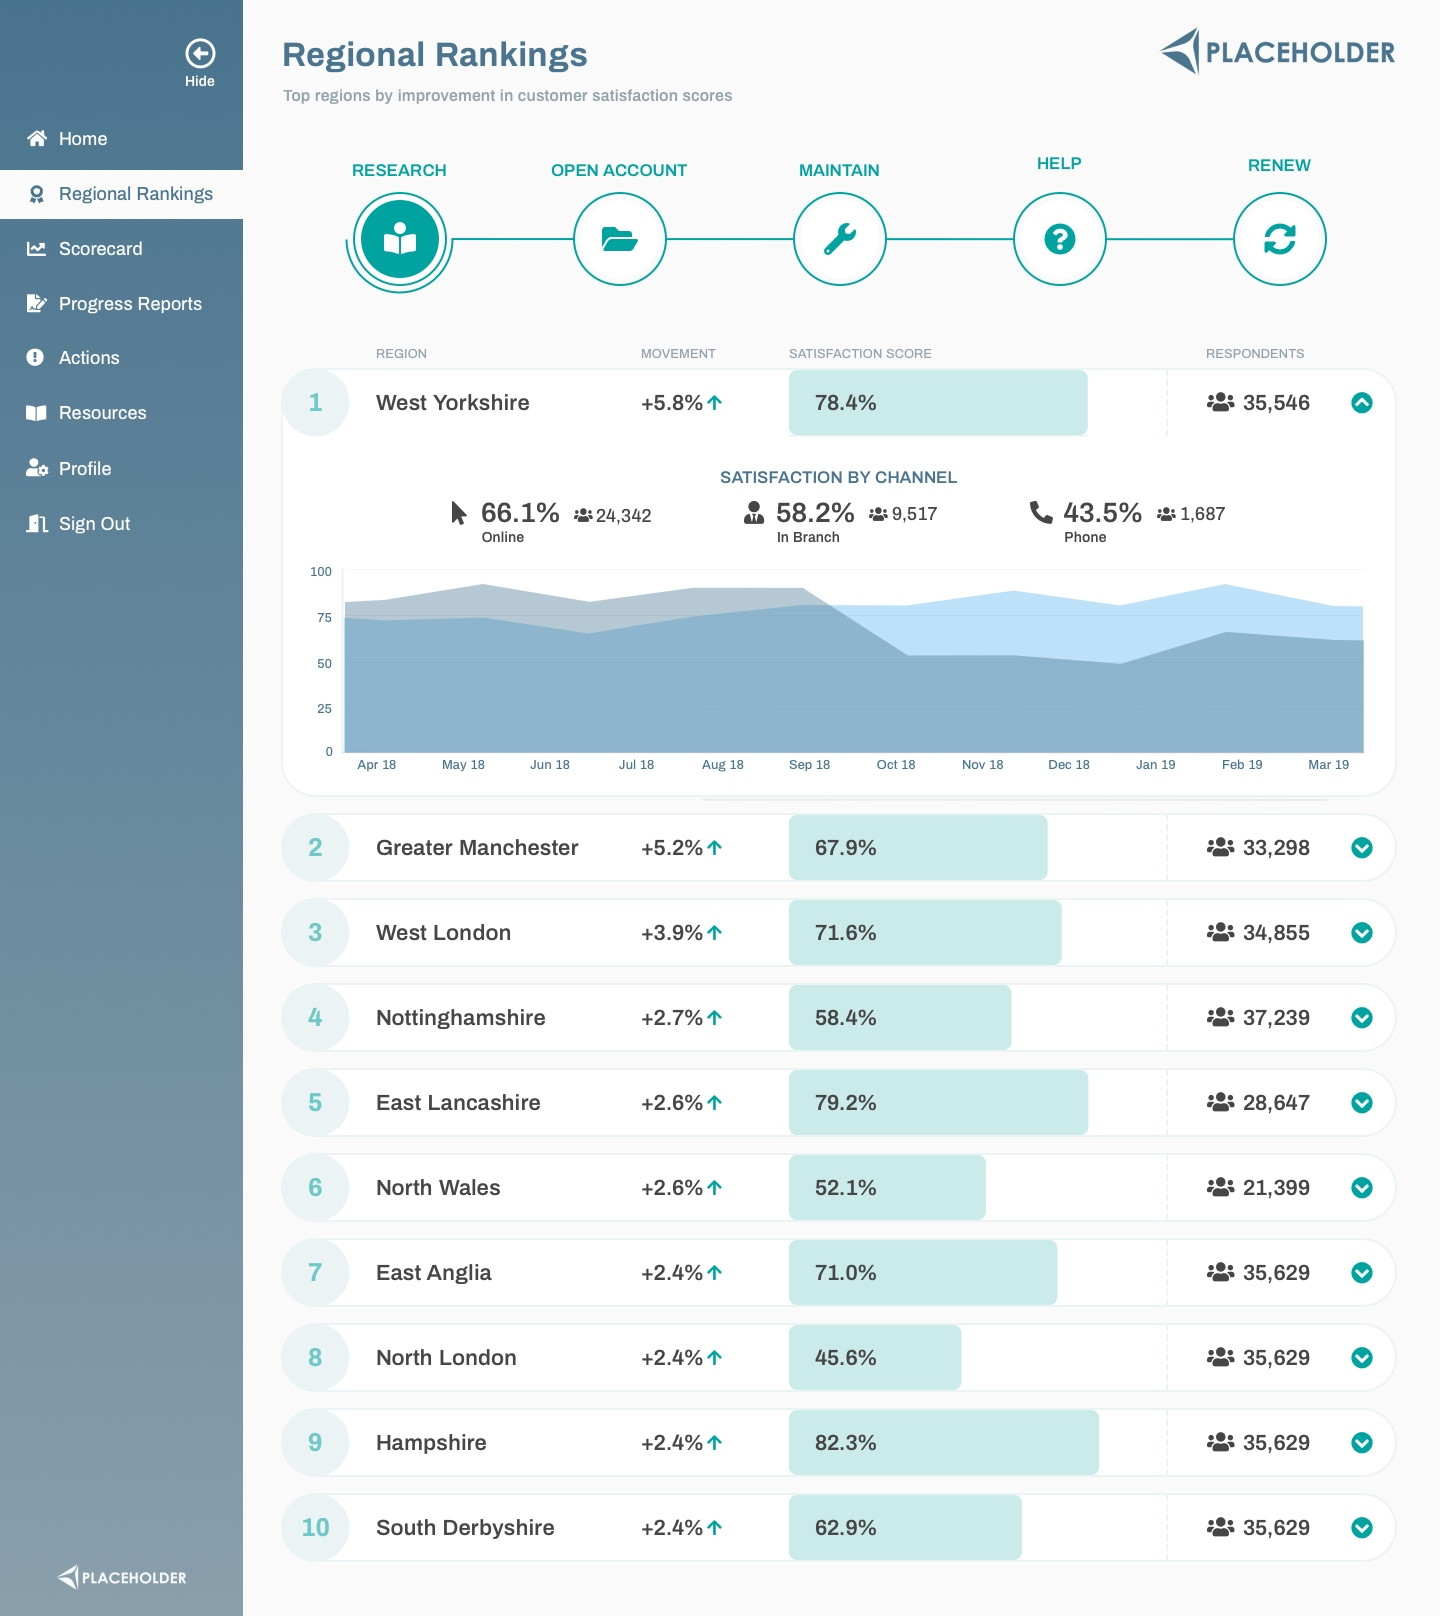
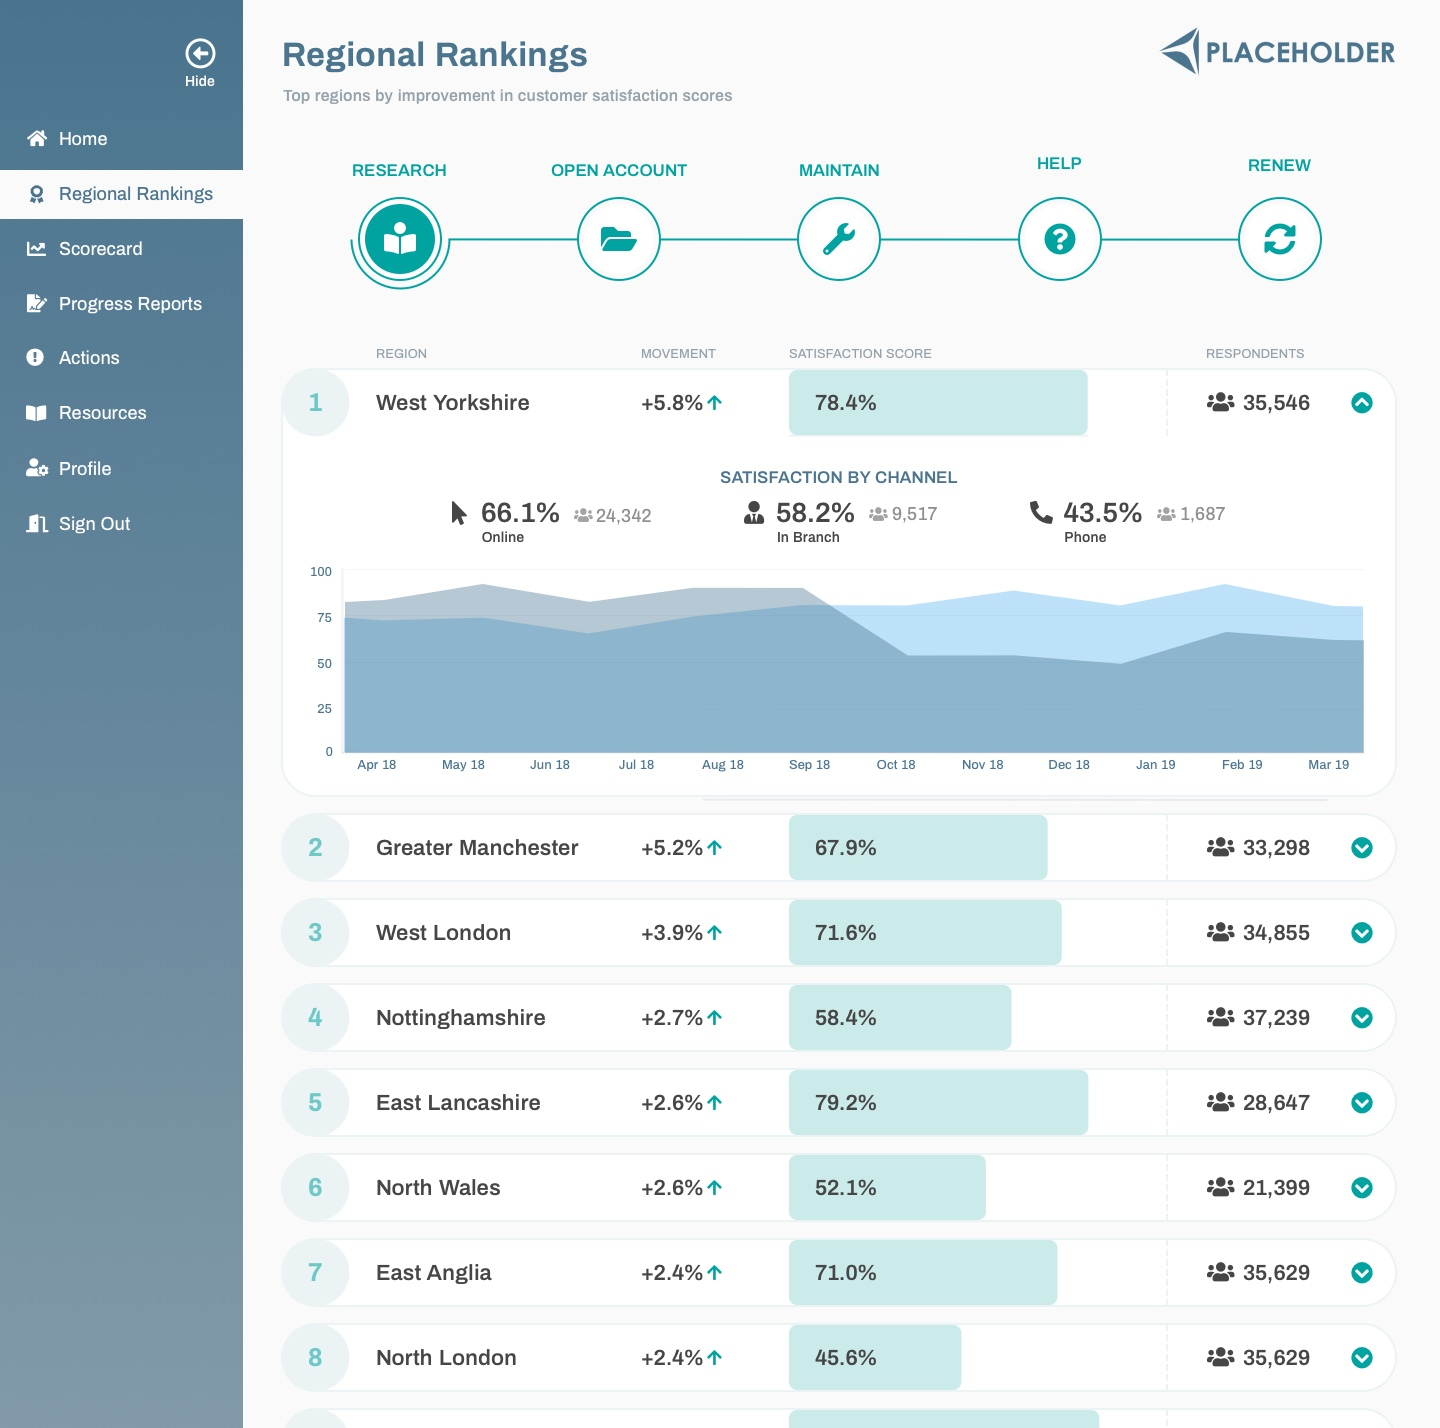
Update images on banking dashboard page

diff --git a/projects/dashboard-design.html b/projects/dashboard-design.html
@@ -863,7 +863,11 @@ lazy-animations: true
 
         <div class="panel">
           <h4>Final Mobile Designs</h4>
-          <div class="image-section image-grid two-col mobile">
+          <div class="image-section image-grid three-col mobile">
+            <div class="project-image image-intersect">
+              <img class="lazy" data-src="/images/dashboard-design/bank-dashboard/mobile-rankings-landing.jpg"
+                alt="Mobile rankings landing" />
+            </div>
             <div class="project-image image-intersect">
               <img class="lazy" data-src="/images/dashboard-design/bank-dashboard/mobile-rankings.jpg"
                 alt="Mobile rankings expanded" />

diff --git a/_sass/_page-specific.sass b/_sass/_page-specific.sass
@@ -287,11 +287,6 @@
           .project-image
             padding: 2em 0
 
-        &.banking .image-section .project-image
-          &:nth-of-type(2), &:last-of-type
-            img
-              border-radius: 0.5em
-
       .image-section:not(.wireframes) img
         border-radius: .5em
 
